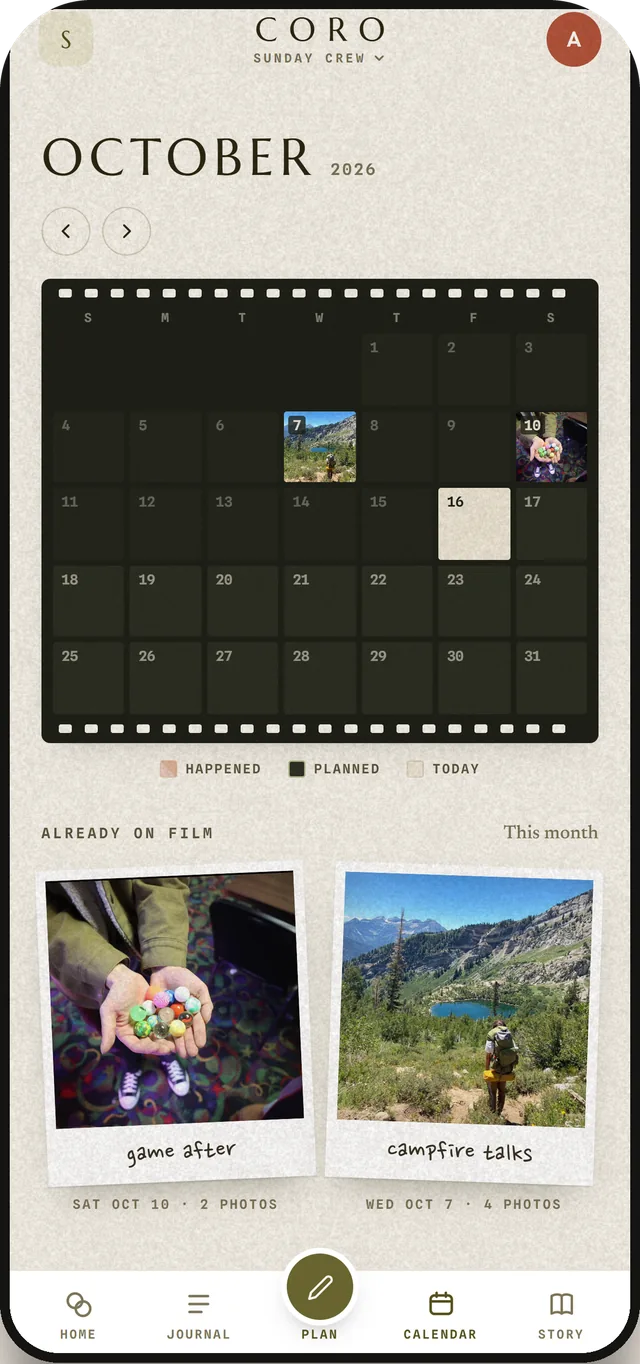
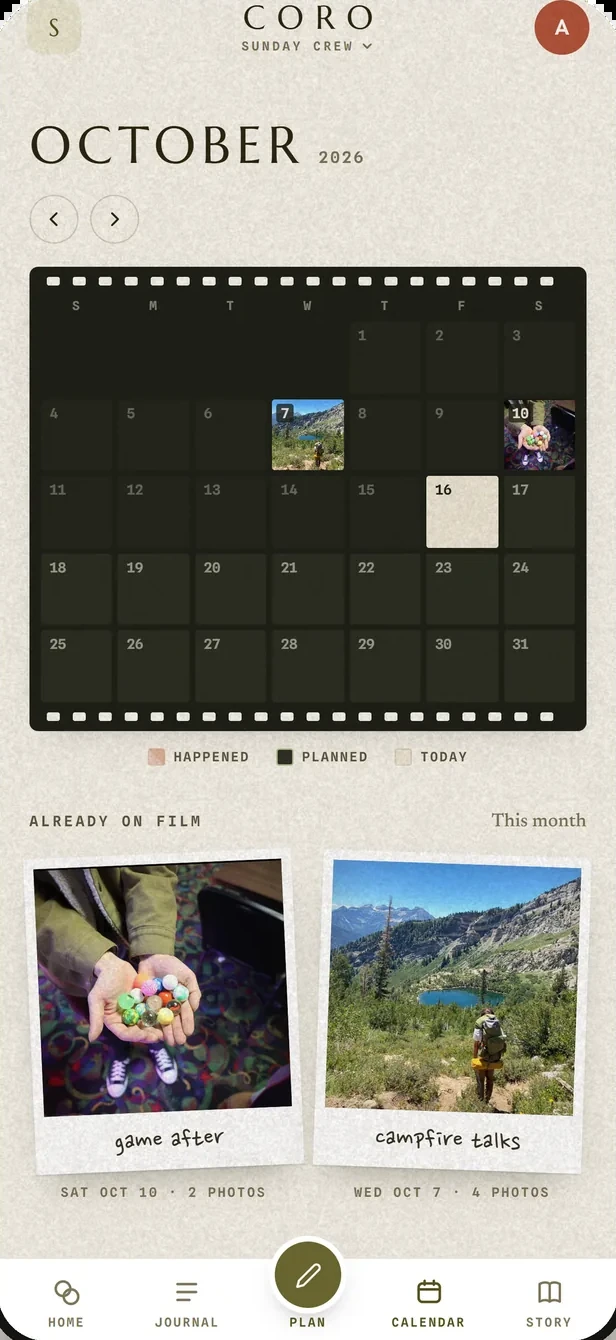
better phones

diff --git a/assets/home.css b/assets/home.css
@@ -29,7 +29,7 @@
 .fine{font-family:var(--font-mono);font-size:11px;letter-spacing:.14em;text-transform:uppercase;color:var(--ink3);margin-top:20px}
 .stage{position:relative;height:720px}
 .stage .phone{position:absolute;left:50%;top:0;width:330px;transform:translateX(-50%) rotate(2deg);filter:drop-shadow(0 40px 40px rgba(43,40,18,.28));z-index:2}
-.stage .phone img{display:block;width:100%;height:auto}
+.stage .phone img{display:block;width:100%;height:auto;box-sizing:border-box;border:6px solid #141412;border-radius:40px;box-shadow:0 0 0 1.5px #3a3a35,inset 0 0 0 1px #000}
 .polaroid{position:absolute;background:#FFFEFA;padding:10px 10px 0;box-shadow:0 14px 30px -10px rgba(43,40,18,.4),0 1px 2px rgba(43,40,18,.2);transition:transform .35s cubic-bezier(.2,.8,.2,1);margin:0}
 .polaroid img{display:block;width:100%;aspect-ratio:1;object-fit:cover;filter:saturate(.92) contrast(.98) sepia(.08)}
 .polaroid figcaption{font-family:var(--font-pen);font-size:23px;text-align:center;padding:8px 0 10px;color:var(--ink);line-height:1.1}
@@ -61,7 +61,7 @@
 .feature.flip .ftext{order:2}
 .fphone{position:relative;display:flex;justify-content:center}
 .fphone .bg{position:absolute;left:50%;top:50%;width:400px;height:400px;margin:-200px 0 0 -200px;border-radius:50%;z-index:0}
-.fphone img{position:relative;z-index:1;width:300px;height:auto;filter:drop-shadow(0 30px 30px rgba(43,40,18,.25));transform:rotate(-2deg);transition:transform .5s cubic-bezier(.2,.8,.2,1)}
+.fphone img{position:relative;z-index:1;width:300px;height:auto;box-sizing:border-box;border:6px solid #141412;border-radius:40px;box-shadow:0 0 0 1.5px #3a3a35;filter:drop-shadow(0 30px 30px rgba(43,40,18,.25));transform:rotate(-2deg);transition:transform .5s cubic-bezier(.2,.8,.2,1)}
 .feature.flip .fphone img{transform:rotate(2deg)}
 .fphone:hover img{transform:rotate(0) translateY(-6px)}
 .ftext .num{font-family:var(--font-mono);font-size:12px;letter-spacing:.2em;color:var(--ink3);margin-bottom:14px}

diff --git a/index.html b/index.html
@@ -53,7 +53,7 @@
       <span class="blob" style="width:200px;height:200px;background:var(--rose);opacity:.45;right:2%;top:440px"></span>
       <span class="blob" style="width:120px;height:120px;background:var(--olive-lt);opacity:.6;left:0;top:340px"></span>
       <figure class="polaroid p1"><img src="/assets/img/p_beach.jpg" alt="Friends at the beach" loading="eager"><figcaption>salt hair</figcaption></figure>
-      <div class="phone"><img src="/assets/img/ph_home.webp" alt="Coro home screen showing Taco Night, who's free, and today's prints" width="640" height="1364"></div>
+      <div class="phone"><img src="/assets/img/ph_home.webp" alt="Coro home screen showing Taco Night, who's free, and today's prints" width="616" height="1340"></div>
       <figure class="polaroid p2"><img src="/assets/img/p_concert.jpg" alt="Concert crowd" loading="eager"><figcaption>front row</figcaption></figure>
       <figure class="polaroid p3"><img src="/assets/img/p_coffee.jpg" alt="Coffee" loading="eager"><figcaption>first round</figcaption></figure>
     </div>
